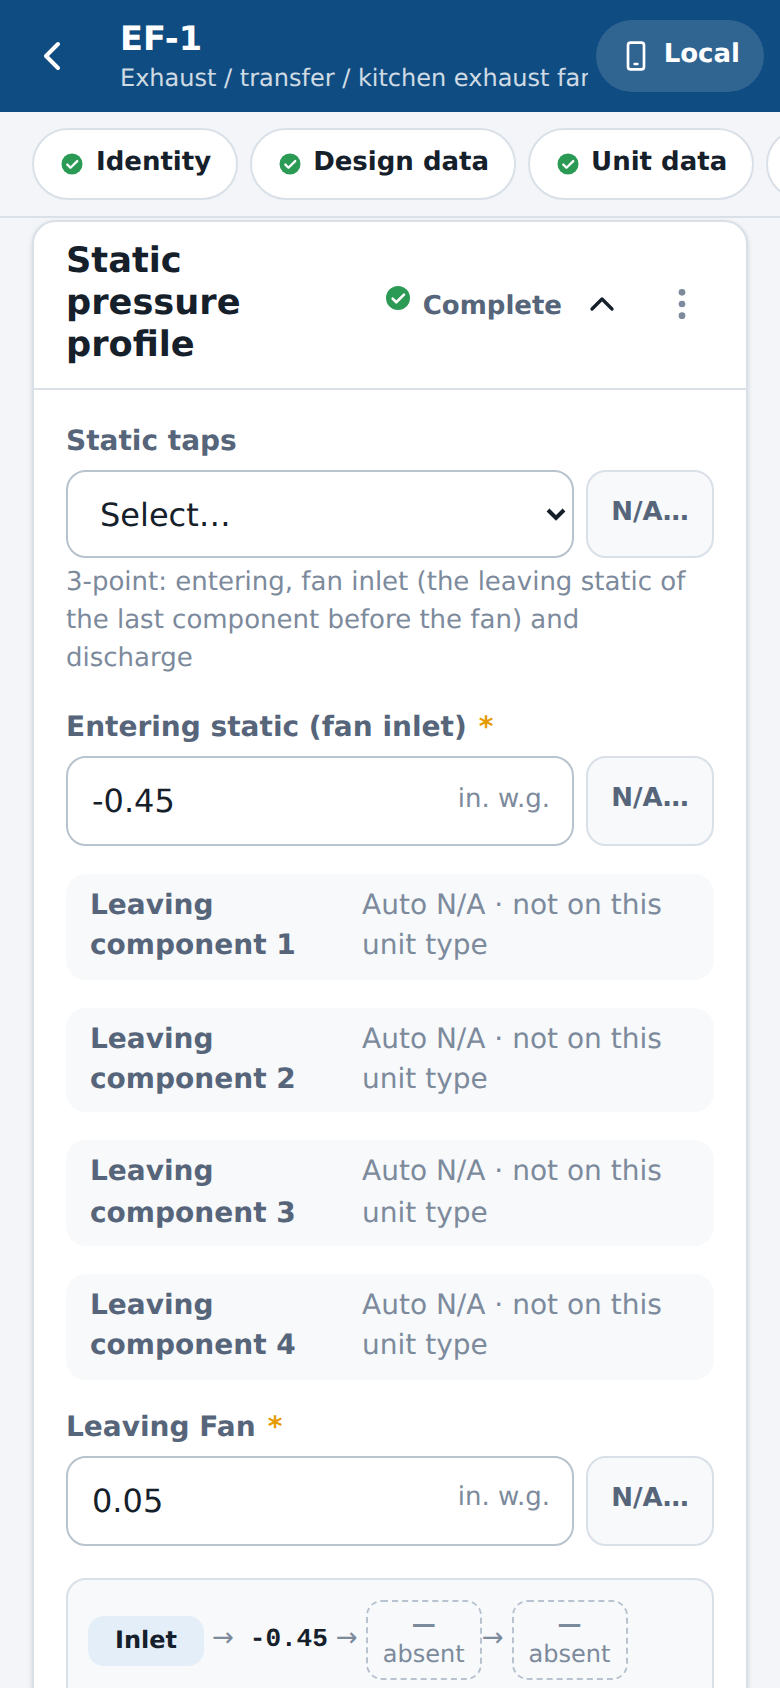
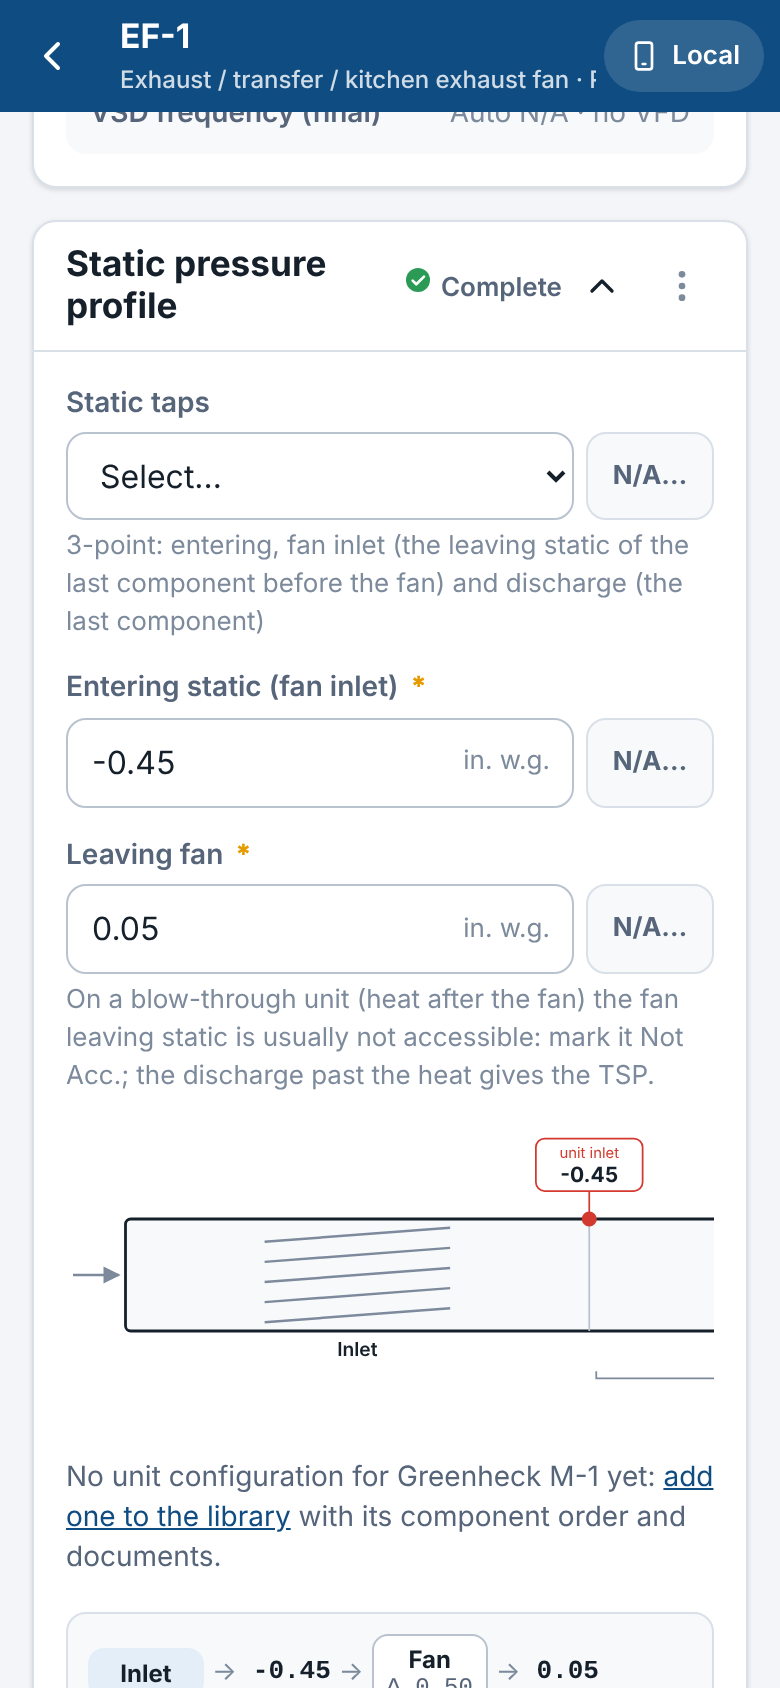
e2e: expectations on template revision 08
- RTU-1 static profile: the rev 08 component order (filter, coil, reheat, fan, heat); six ΔP slots read
- EF-1: only the entering and fan readings are inputs; components 2-6 absent on the strip
- recalc cross-check: component ΔP texts in C:H of row P+21 (rev 08 layout)
- re-import: VBA compared with the rev 08 template (rev 07 is no longer copied to public/templates)
- the generated sample cover photo is made when missing (the cover / photo report / zip checks need it)
- doc screenshots 09 and 13: the rev 08 static profile

Claude-Session: https://claude.ai/code/session_01XqZpAyd93zFvT5GwRVyp97

diff --git a/app/e2e/newTypes.ts b/app/e2e/newTypes.ts
@@ -83,7 +83,7 @@ async function scrollTo(page: Page, id: string) {
 export async function readLivePanels(page: Page, prefix: string, ui: Record<string, string>) {
   for (const id of ['sp-tsp', 'sp-esp', 'sp-unitdp', 'motor-fla', 'motor-bhp', 'motor-avg-volts', 'motor-avg-amps'])
     ui[`${prefix}.${id}`] = (await page.getByTestId(id).innerText()).trim();
-  for (let k = 1; k <= 5; k++) ui[`${prefix}.sp-dp-${k}`] = (await page.getByTestId(`sp-dp-${k}`).innerText()).trim();
+  for (let k = 1; k <= 6; k++) ui[`${prefix}.sp-dp-${k}`] = (await page.getByTestId(`sp-dp-${k}`).innerText()).trim();
   if ((await page.getByTestId('unit-esp-actual').count()) > 0)
     ui[`${prefix}.unit-esp-actual`] = (await page.getByTestId('unit-esp-actual').innerText()).trim();
 }
@@ -233,11 +233,21 @@ export async function fillNewTypes(
   await photo(page, 'Motor / nameplate', photoFile);
   await page.waitForTimeout(600);
   await readLivePanels(page, 'fan', ui);
-  const fanStatic = await page.locator('#sec-static').innerText();
+  // rev 08: the components the unit type lacks are hidden inputs and "absent" on the strip
+  const fanStaticFields = await page
+    .locator('#sec-static [data-field]')
+    .evaluateAll((els) =>
+      els
+        .map((e) => e.getAttribute('data-field')!)
+        .filter((k) => /^sp(Entering|Filter|Coil|Wheel|Reheat|Desiccant|Burner|Core|Fan|Heat)$/.test(k)),
+    );
+  const fanDps = [1, 2, 3, 4, 5, 6].map((k) => ui[`fan.sp-dp-${k}`]);
   check(
     'EF-1 complete (green); only the fan is on the static profile',
-    (await badge(page)).includes('Complete') && (fanStatic.match(/Auto N\/A/g) ?? []).length >= 4,
-    await badge(page),
+    (await badge(page)).includes('Complete') &&
+      fanStaticFields.join(',') === 'spEntering,spFan' &&
+      fanDps.slice(1).every((t) => t === 'absent'),
+    `${await badge(page)}; inputs ${fanStaticFields.join(', ')}; ΔP ${fanDps.join(' ')}`,
   );
   await scrollTo(page, 'sec-static');
   await docShot('09-fan');
@@ -520,9 +530,10 @@ export async function recalcCrossCheck(file: string, wb: ProjectData, ui: Record
     await cmp(`${name} corrected FLA`, sheet, `D${P0 + 14}`, mc.correctedFla);
     await cmp(`${name} estimated BHP`, sheet, `G${P0 + 14}`, mc.bhp);
     const dps: string[] = [];
-    for (const col of ['D', 'F', 'H', 'J', 'L']) dps.push(String((await val(sheet, `${col}${P0 + 24}`)) ?? ''));
+    // rev 08: the ΔP text of components 1-6 in C:H of the row below the readings
+    for (const col of ['C', 'D', 'E', 'F', 'G', 'H']) dps.push(String((await val(sheet, `${col}${P0 + 21}`)) ?? ''));
     check(
-      `recalc: ${name} component ΔP texts (${sheet}!D:L${P0 + 24}) = app`,
+      `recalc: ${name} component ΔP texts (${sheet}!C:H${P0 + 21}) = app`,
       dps.every((t, k) => t === (sp.dpText[k] ?? '')),
       dps.join(' | '),
     );
@@ -533,7 +544,7 @@ export async function recalcCrossCheck(file: string, wb: ProjectData, ui: Record
     const wbEsp = await val(sheet, `I${P0 + 25}`);
     const wbFla = await val(sheet, `D${P0 + 14}`);
     const wbBhp = await val(sheet, `G${P0 + 14}`);
-    const uiDps = [1, 2, 3, 4, 5].map((k) => shown(`sp-dp-${k}`));
+    const uiDps = [1, 2, 3, 4, 5, 6].map((k) => shown(`sp-dp-${k}`));
     check(
       `UI panels = recalculated workbook: ${name} TSP ${shown('sp-tsp')}, ESP ${shown('sp-esp')}, corrected FLA ${shown('motor-fla')}, BHP ${shown('motor-bhp')}`,
       shown('sp-tsp') === fmt2(wbTsp, ' in. w.g.') &&

diff --git a/app/e2e/run-e2e.ts b/app/e2e/run-e2e.ts
@@ -159,6 +159,9 @@ async function main() {
   rmSync(OUT, { recursive: true, force: true });
   mkdirSync(SHOTS, { recursive: true });
   mkdirSync(OUT, { recursive: true });
+  // the sample cover photo is generated (git-ignored): the cover, photo report and zip checks need it
+  if (!existsSync(COVER))
+    spawnSync('npm', ['run', 'make-photo', '-w', 'spike/export'], { cwd: join(APP, '..'), stdio: 'inherit' });
   const server = await startPreview();
   const browser = await launch();
   // every page of every context: report CSP violations (securitypolicyviolation events and console reports)
@@ -375,13 +378,16 @@ async function main() {
     const rtuUi: Record<string, string> = {};
     await readLivePanels(page, 'rtu', rtuUi);
     check(
-      'RTU-1 static profile: TSP 1.77, ESP 1.07, unit ΔP -0.70 in. w.g.; filter Δ -0.20, wheel absent, coil Δ -0.40',
+      'RTU-1 static profile (rev 08: filter, coil, reheat, fan, heat): TSP 1.77, ESP 1.07, unit ΔP -0.70 in. w.g.; filter Δ -0.20, coil Δ -0.50, reheat and fan Δ — (no reheat reading), heat Δ 0.00, slot 6 absent',
       rtuUi['rtu.sp-tsp'] === '1.77 in. w.g.' &&
         rtuUi['rtu.sp-esp'] === '1.07 in. w.g.' &&
         rtuUi['rtu.sp-unitdp'] === '-0.70 in. w.g.' &&
         rtuUi['rtu.sp-dp-1'] === 'Δ -0.20' &&
-        rtuUi['rtu.sp-dp-2'] === 'absent' &&
-        rtuUi['rtu.sp-dp-3'] === 'Δ -0.40' &&
+        rtuUi['rtu.sp-dp-2'] === 'Δ -0.50' &&
+        rtuUi['rtu.sp-dp-3'] === 'Δ —' &&
+        rtuUi['rtu.sp-dp-4'] === 'Δ —' &&
+        rtuUi['rtu.sp-dp-5'] === 'Δ 0.00' &&
+        rtuUi['rtu.sp-dp-6'] === 'absent' &&
         rtuUi['rtu.unit-esp-actual'] === '1.07',
       JSON.stringify(rtuUi),
     );

diff --git a/app/e2e/reimport.ts b/app/e2e/reimport.ts
@@ -102,7 +102,7 @@ export async function reimportFlow(
   const errors: string[] = [];
   page.on('pageerror', (e) => errors.push(String(e)));
   page.on('dialog', (d) => void d.accept());
-  const template = readFileSync(join(import.meta.dirname, '..', 'public', 'templates', 'tab-template-rev07.xlsm'));
+  const template = readFileSync(join(import.meta.dirname, '..', 'public', 'templates', 'tab-template-rev08.xlsm'));
   const vbaOf = async (b: Uint8Array) => (await JSZip.loadAsync(b)).file('xl/vbaProject.bin')!.async('uint8array');
   const templateVba = await vbaOf(template);
   try {
